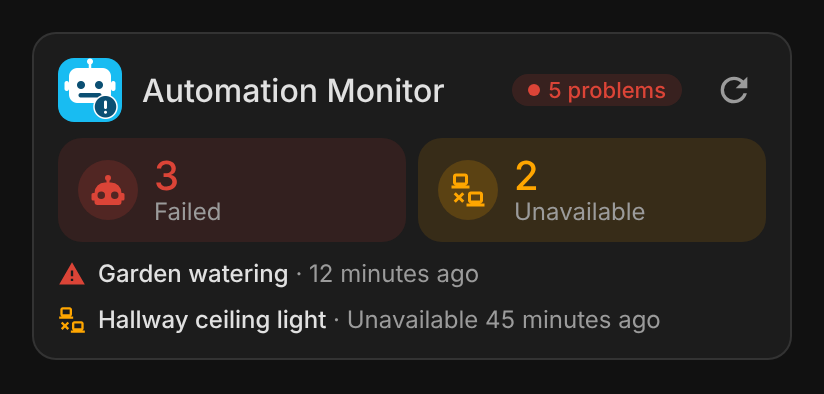
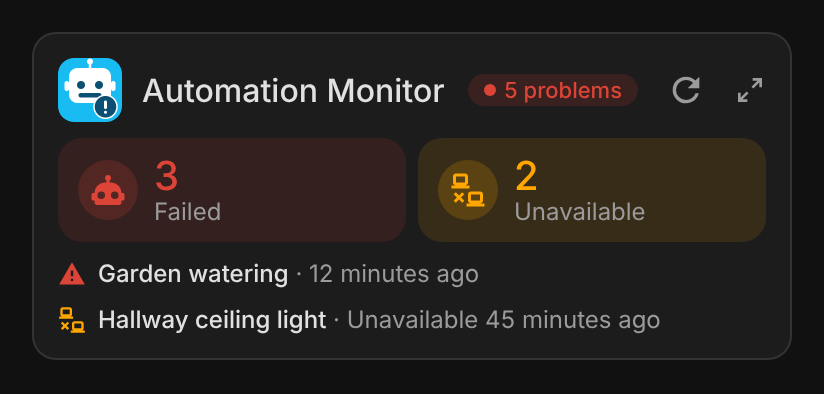
Mini card: detail button at the top right, switching to the full card
Claude-Session: https://claude.ai/code/session_01NW8HrjdUvTF3zwsaKKxQNw

Changed region(s): [[0.5461, 0.1827, 0.9405, 0.2741]]

diff --git a/src/automation-monitor-card.js b/src/automation-monitor-card.js
@@ -35,6 +35,9 @@ const ICONS = {
   scene: "M17.5,12A1.5,1.5 0 0,1 16,10.5A1.5,1.5 0 0,1 17.5,9A1.5,1.5 0 0,1 19,10.5A1.5,1.5 0 0,1 17.5,12M14.5,8A1.5,1.5 0 0,1 13,6.5A1.5,1.5 0 0,1 14.5,5A1.5,1.5 0 0,1 16,6.5A1.5,1.5 0 0,1 14.5,8M9.5,8A1.5,1.5 0 0,1 8,6.5A1.5,1.5 0 0,1 9.5,5A1.5,1.5 0 0,1 11,6.5A1.5,1.5 0 0,1 9.5,8M6.5,12A1.5,1.5 0 0,1 5,10.5A1.5,1.5 0 0,1 6.5,9A1.5,1.5 0 0,1 8,10.5A1.5,1.5 0 0,1 6.5,12M12,3A9,9 0 0,0 3,12A9,9 0 0,0 12,21A1.5,1.5 0 0,0 13.5,19.5C13.5,19.11 13.35,18.76 13.11,18.5C12.88,18.23 12.73,17.88 12.73,17.5A1.5,1.5 0 0,1 14.23,16H16A5,5 0 0,0 21,11C21,6.58 16.97,3 12,3Z",
   chevron_down: "M7.41,8.58L12,13.17L16.59,8.58L18,10L12,16L6,10L7.41,8.58Z",
   chevron_up: "M7.41,15.41L12,10.83L16.59,15.41L18,14L12,8L6,14L7.41,15.41Z",
+  // mdi:arrow-expand and mdi:arrow-collapse, the mini card's detail button.
+  expand: "M10,21V19H6.41L10.91,14.5L9.5,13.09L5,17.59V14H3V21H10M14.5,10.91L19,6.41V10H21V3H14V5H17.59L13.09,9.5L14.5,10.91Z",
+  collapse: "M19.5,3.09L15,7.59V4H13V11H20V9H16.41L20.91,4.5L19.5,3.09M4,13V15H7.59L3.09,19.5L4.5,20.91L9,16.41V20H11V13H4Z",
 };
 
 const STRINGS = {
@@ -63,6 +66,8 @@ const STRINGS = {
     show_more: "Show {n} more",
     show_less: "Show less",
     just_now: "just now",
+    zoom_in: "Show the full card",
+    zoom_out: "Back to the compact view",
     no_integration: "Automation Monitor not found. Is the Automation Monitor integration installed?",
     unavailable: "The Automation Monitor sensors are unavailable.",
     no_registry: "This card needs Home Assistant 2024.8 or later.",
@@ -77,6 +82,8 @@ const STRINGS = {
     show_details: "Show error details",
     max_items: "Items shown per list",
     exclude_devices: "Ignored devices",
+    zoom: "Detail button",
+    zoom_helper: "Switches the mini card to the full card and back",
     language: "Language",
     lang_auto: "Automatic",
   },
@@ -105,6 +112,8 @@ const STRINGS = {
     show_more: "Afficher {n} de plus",
     show_less: "Afficher moins",
     just_now: "à l'instant",
+    zoom_in: "Afficher la carte complète",
+    zoom_out: "Revenir à la vue compacte",
     no_integration: "Automation Monitor introuvable. L'intégration Automation Monitor est-elle installée ?",
     unavailable: "Les capteurs d'Automation Monitor sont indisponibles.",
     no_registry: "Cette carte nécessite Home Assistant 2024.8 ou plus récent.",
@@ -119,6 +128,8 @@ const STRINGS = {
     show_details: "Afficher le détail des erreurs",
     max_items: "Éléments affichés par liste",
     exclude_devices: "Appareils ignorés",
+    zoom: "Bouton de détail",
+    zoom_helper: "Bascule la mini-carte en carte complète, et inversement",
     language: "Langue",
     lang_auto: "Automatique",
   },
@@ -381,7 +392,14 @@ const BASE_STYLE = `
   .counter.crit .n, .counter.warn .n { color: var(--c); }
   .counter .lbl { font-size: 12px; color: var(--secondary-text-color); line-height: 1.2; }
   .counter > div:last-child { min-width: 0; }
+  .zoom { all: unset; flex: none; cursor: pointer; width: 24px; height: 24px; margin: -4px;
+          border-radius: 50%; display: grid; place-items: center; color: var(--secondary-text-color); }
+  .zoom .icon { width: 16px; height: 16px; }
+  .zoom:hover { background: color-mix(in srgb, var(--secondary-text-color) 16%, transparent); color: var(--primary-text-color); }
+  .zoom:focus-visible { outline: 2px solid var(--primary-color, #03a9f4); outline-offset: 1px; }
 `;
+// A click inside a dialog (more-info opened from the card, say) is not a click outside the card.
+const inDialog = (ev) => ev.composedPath().some((n) => ["ha-more-info-dialog", "ha-dialog", "dialog"].includes(n.localName));
 
 class AutomationMonitorBase extends HTMLElement {
   constructor() {
@@ -593,7 +611,13 @@ class AutomationMonitorBase extends HTMLElement {
         </div>
         <span class="chip clickable ${status.cls}" role="button" tabindex="0" data-entity="${status.entity || ""}"><span class="dot"></span>${esc(status.text)}</span>
         <button class="refresh ${this._refreshing ? "spin" : ""}" data-action="rebuild" title="${esc(`${this._t("rebuild")} · ${this._t("rebuild_title")}`)}">${svgIcon(ICONS.refresh)}</button>
+        ${this._zoomButton()}
       </div>`;
+  }
+
+  // Button at the far right of the header: only the mini card has one.
+  _zoomButton() {
+    return "";
   }
 
   _counters(data) {
@@ -808,6 +832,8 @@ const MINI_STYLE = `
   .header { padding: 12px 12px 8px; }
   .logo { height: 32px; width: 32px; border-radius: 8px; }
   .name { font-size: 16px; }
+  /* A narrower Refresh button (same icon) leaves the title room for the detail button. */
+  .refresh { width: 28px; height: 28px; }
   .content { padding: 0 12px 12px; display: flex; flex-direction: column; gap: 8px; }
   .counter { padding: 8px 10px; }
   .counter .badge { width: 30px; height: 30px; }
@@ -819,29 +845,68 @@ const MINI_STYLE = `
   .line b { font-weight: 500; color: var(--primary-text-color); }
 `;
 
-class AutomationMonitorMiniCard extends AutomationMonitorBase {
+// The mini card extends the full card: its detail button (top right, `zoom: false` removes it) switches it to the
+// full card's content, same configuration, and back; a click anywhere outside the card brings it back too.
+class AutomationMonitorMiniCard extends AutomationMonitorCard {
   constructor() {
     super();
-    this._compact = true;
+    this._zoomed = false;
+    this.shadowRoot.addEventListener("click", (ev) => this._zoomClick(ev));
+    // A click outside the card, and not in a dialog opened from it, brings it back to the compact view.
+    this._onUnzoom = (ev) => {
+      if (this._zoomed && !ev.composedPath().includes(this) && !inDialog(ev)) this._setZoom(false);
+    };
   }
 
   static getConfigElement() {
     return document.createElement("automation-monitor-mini-card-editor");
   }
 
-  static getStubConfig() {
-    return {};
+  // Short counter labels, and no automation count in the signature, while compact.
+  get _compact() {
+    return !this._zoomed;
+  }
+
+  connectedCallback() {
+    super.connectedCallback();
+    document.addEventListener("click", this._onUnzoom, true);
+  }
+
+  disconnectedCallback() {
+    super.disconnectedCallback();
+    document.removeEventListener("click", this._onUnzoom, true);
   }
 
   getCardSize() {
-    return 3;
+    return this._zoomed ? super.getCardSize() : 3;
   }
 
   getGridOptions() {
-    return { columns: 6, min_columns: 6 };
+    return this._zoomed ? super.getGridOptions() : { columns: 6, min_columns: 6 };
+  }
+
+  _setZoom(zoomed) {
+    this._zoomed = zoomed;
+    this._update();
+  }
+
+  // A click on the detail button: never a tap on anything else of the card.
+  _zoomClick(ev) {
+    if (!ev.target?.closest?.(".zoom")) return;
+    ev.stopPropagation();
+    this._setZoom(!this._zoomed);
+    // Keyboard use (Enter / Space: no click count) keeps the focus on the button.
+    if (ev.detail === 0) this.shadowRoot.querySelector(".zoom")?.focus();
+  }
+
+  _zoomButton() {
+    if (this._config.zoom === false) return "";
+    const z = this._zoomed;
+    return `<button class="zoom" title="${esc(this._t(z ? "zoom_out" : "zoom_in"))}">${svgIcon(z ? ICONS.collapse : ICONS.expand)}</button>`;
   }
 
   _render() {
+    if (this._zoomed) return super._render();
     const data = this._data();
     if (data.error) return this._errorCard(data.error);
     const c = this._config;
@@ -929,6 +994,7 @@ class AutomationMonitorEditorBase extends HTMLElement {
     if (!this._form) {
       this._form = document.createElement("ha-form");
       this._form.computeLabel = (s) => t(this._hass, this._config, s.name);
+      this._form.computeHelper = (s) => STRINGS[lang(this._hass, this._config)][`${s.name}_helper`];
       this._form.addEventListener("value-changed", (ev) => {
         ev.stopPropagation();
         const config = { ...ev.detail.value };
@@ -959,7 +1025,11 @@ class AutomationMonitorCardEditor extends AutomationMonitorEditorBase {
   }
 }
 
-class AutomationMonitorMiniCardEditor extends AutomationMonitorEditorBase {}
+class AutomationMonitorMiniCardEditor extends AutomationMonitorEditorBase {
+  static get toggles() {
+    return [...AutomationMonitorEditorBase.toggles, ["zoom", true]];
+  }
+}
 
 // ---------------------------------------------------------------------------
 // Registration

diff --git a/README.md b/README.md
@@ -28,6 +28,7 @@ The cards are built on top of the Automation Monitor integration: its two sensor
 - **Clear** a failure (or **Clear all**) with the integration's `automation_monitor.reset` action, with confirmation
 - Unavailable linked entities: name, entity id, how long it has been unavailable and the automations, scripts and scenes that use it (click one to open its editor)
 - **Refresh** button in the header of both cards, always visible, rebuilding the list of linked entities (`automation_monitor.rebuild_linked_entities`)
+- Detail button at the top right of the mini card: it switches to the full card and back; a click anywhere outside the card brings the compact view back
 - Failed automations and unavailable linked entities are folded by default: click the section title to unfold them; long lists are cut to a configurable number of items, with a "Show more" button
 - Click a counter, an automation or an entity to open its Home Assistant more-info dialog
 - Click the Automation Monitor logo to open the [integration's page](https://github.com/olli-dot-dev/ha-automation-monitor)
@@ -106,6 +107,7 @@ title: Automations
 show_logo: true
 show_failed: true
 show_linked: true
+zoom: true
 language: fr
 ```
 
@@ -122,6 +124,7 @@ language: fr
 | `show_details` | full | `true` | Error message of each failed automation |
 | `show_controls` | full | `true` | Clear and Clear all buttons (the Trace and Edit links and the Refresh button are always shown) |
 | `max_items` | full | `5` | Items shown per list before the "Show more" button |
+| `zoom` | mini | `true` | Detail button at the top right: switches to the full card and back (`false` removes it) |
 | `exclude_devices` | both | — | Devices to ignore: their unavailable linked entities (and failed automations attached to them) are left out of the lists, counters and status. Device ids (written by the visual editor) or device names |
 | `failed_entity` | both | Auto | Failed automations sensor, only needed if it can't be found automatically |
 | `linked_entity` | both | Auto | Unavailable linked entities sensor, only needed if it can't be found automatically |
@@ -133,6 +136,7 @@ language: fr
 |---|---|
 | ![card](screenshots/card.png) | ![card dark](screenshots/card-dark.png) |
 | ![mini card](screenshots/mini-card.png) | ![mini card dark](screenshots/mini-card-dark.png) |
+| ![mini card zoomed in](screenshots/mini-card-zoom.png) | ![mini card zoomed in dark](screenshots/mini-card-zoom-dark.png) |
 
 Lists unfolded:
 

diff --git a/CHANGELOG.md b/CHANGELOG.md
@@ -4,6 +4,10 @@
 
 ### Changes
 - The Automation Monitor logo in the header of the full card is 40 px (was 36 px), the same size as the header icon of the other cards.
+- Detail button at the top right of the mini card (after the status pill and the Refresh button): it shows the full card with the same options, and a second click brings the compact view back. A click anywhere outside the card also folds it back; clicks on the card or in a dialog opened from it (more-info) do not. The logo stays 32 px on the compact view, 40 px zoomed in; the compact view's Refresh button is a little narrower (same icon) so the title keeps its room. New `zoom` option (on by default, in the visual editor): `zoom: false` removes the button.
+
+### Maintenance
+- Tests for the detail button; light and dark screenshots of the zoomed-in mini card.
 
 ## 1.10.1
 
